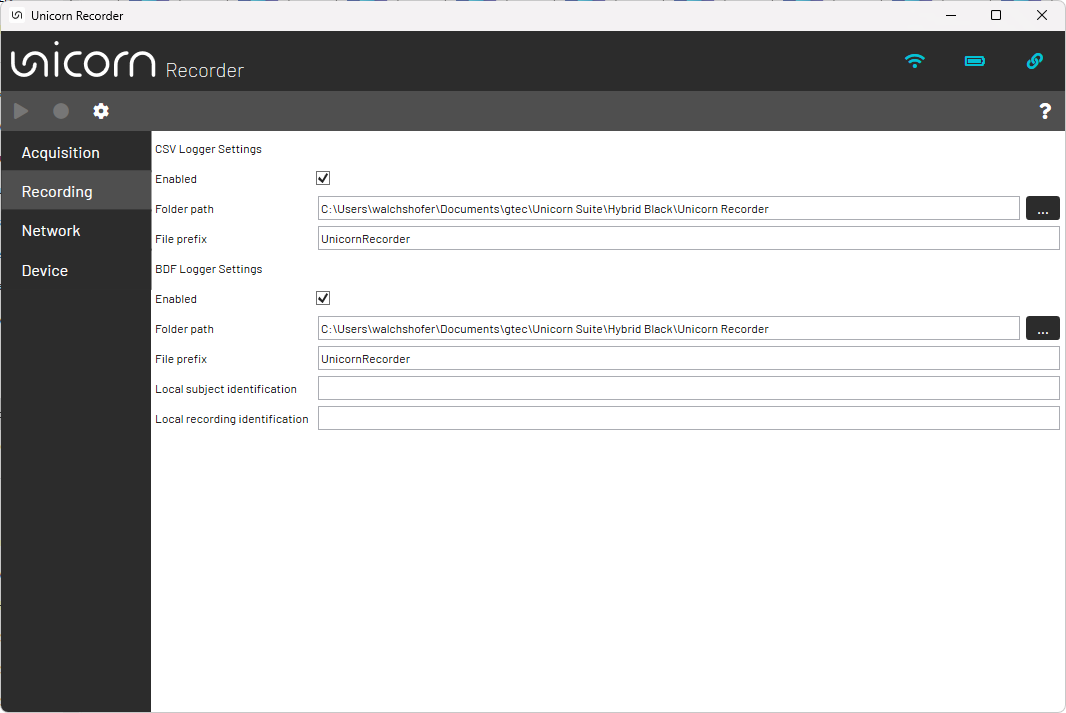
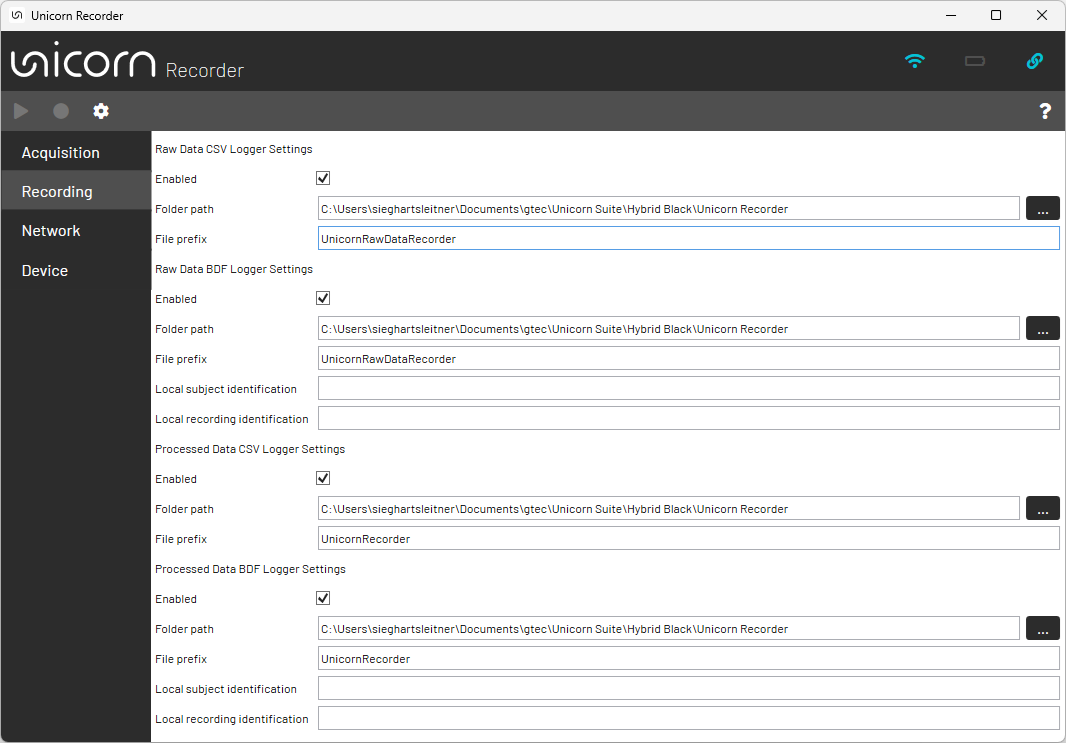
Updated Recording and Network Settings

diff --git a/README.md b/README.md
@@ -96,14 +96,23 @@ Ch. 18 - DT - Delta time / Timespan between two received samples in milliseconds
 Ch. 19 - STATUS - Status / Trigger Value<br/>
 
 ### Recording settings
-
-Data can be recorder to BDF or CSV files. It is possible to select the recording format in the 'Recording' settings. 'Folder path' and 'File prefix' can be modified as well. 
+Data can be recorded to BDF or CSV files. It is possible to select the recording format in the 'Recording' settings. 'Folder path' and 'File prefix' can be modified as well.
 
 The default 'Folder path' is set to:
 
 ```C:\Users\<username>\Documents\gtec\Unicorn Suite\Hybrid Black\Unicorn Recorder```
- 
-and the 'File prefix' is set to 'UnicornRecorder'
+
+Four logger types are available, each of which can be individually enabled or disabled:
+
+**Raw Data CSV Logger:** Records unprocessed EEG data in CSV format. The file prefix defaults to `UnicornRawDataRecorder`.
+
+**Raw Data BDF Logger:** Records unprocessed EEG data in BDF+ format. The file prefix defaults to `UnicornRawDataRecorder`. Optional fields for 'Local subject identification' and 'Local recording identification' can be filled in to embed subject and session metadata into the BDF file header.
+
+**Processed Data CSV Logger:** Records processed EEG data in CSV format. The file prefix defaults to `UnicornRecorder`. If OSCAR is enabled, the data written by this logger reflects OSCAR-processed EEG; otherwise it reflects the currently selected filter settings.
+
+**Processed Data BDF Logger:** Records processed EEG data in BDF+ format. The file prefix defaults to `UnicornRecorder`. Optional fields for 'Local subject identification' and 'Local recording identification' are available. If OSCAR is enabled, the data written by this logger reflects OSCAR-processed EEG; otherwise it reflects the currently selected filter settings.
+
+Raw data loggers always record the unfiltered signal regardless of any processing settings.
 
 <p align="center">
 <img src="./img/rec6.png" alt="drawing" width="500"/><br/>
@@ -150,8 +159,21 @@ Data is stored in the BDF+ file format if BDF logging is enabled. Data can be lo
 </p>
 
 ### Network settings
+Unicorn Recorder features multiple network interfaces for sending triggers from an external application to Unicorn Recorder, or for streaming data from Unicorn Recorder to an external application.
 
-Unicorn Recorder features multiple network interfaces for sending triggers from an external application to Unicorn Recorder or data from Unicorn Recorder to an external application.
+Five network interface types are available, each of which can be individually enabled or disabled:
+
+**Trigger UDP Input:** Receives trigger values from an external application (e.g. a stimulus presentation tool) via UDP. IP and port can be configured freely. In the example above, the IP is set to `127.0.0.1` and the port is set to `1000`.
+
+**Raw Data UDP Output:** Streams unprocessed EEG data to an external application via UDP. IP and port can be configured freely. In the example above, the IP is set to `127.0.0.1` and the port is set to `1002`. Raw data output always reflects the unfiltered signal regardless of any processing settings.
+
+**Raw Data LSL Output:** Streams unprocessed EEG data to an external application via LSL. The stream name can be configured freely. In the example above, the stream name is set to `UnicornRecorderRawDataLSLStream`. Raw data output always reflects the unfiltered signal regardless of any processing settings.
+
+**Processed Data UDP Output:** Streams processed EEG data to an external application via UDP. IP and port can be configured freely. In the example above, the IP is set to `127.0.0.1` and the port is set to `1001`. If OSCAR is enabled, the data transmitted via this interface reflects OSCAR-processed EEG; otherwise it reflects the currently selected filter settings.
+
+**Processed Data LSL Output:** Streams processed EEG data to an external application via LSL. The stream name can be configured freely. In the example above, the stream name is set to `UnicornRecorderLSLStream`. If OSCAR is enabled, the data transmitted via this interface reflects OSCAR-processed EEG; otherwise it reflects the currently selected filter settings.
+
+Note that the port used for the Trigger UDP Input must differ from the ports used for data outputs.
 
 <p align="center">
 <img src="./img/rec7.png" alt="drawing" width="500"/><br/>
